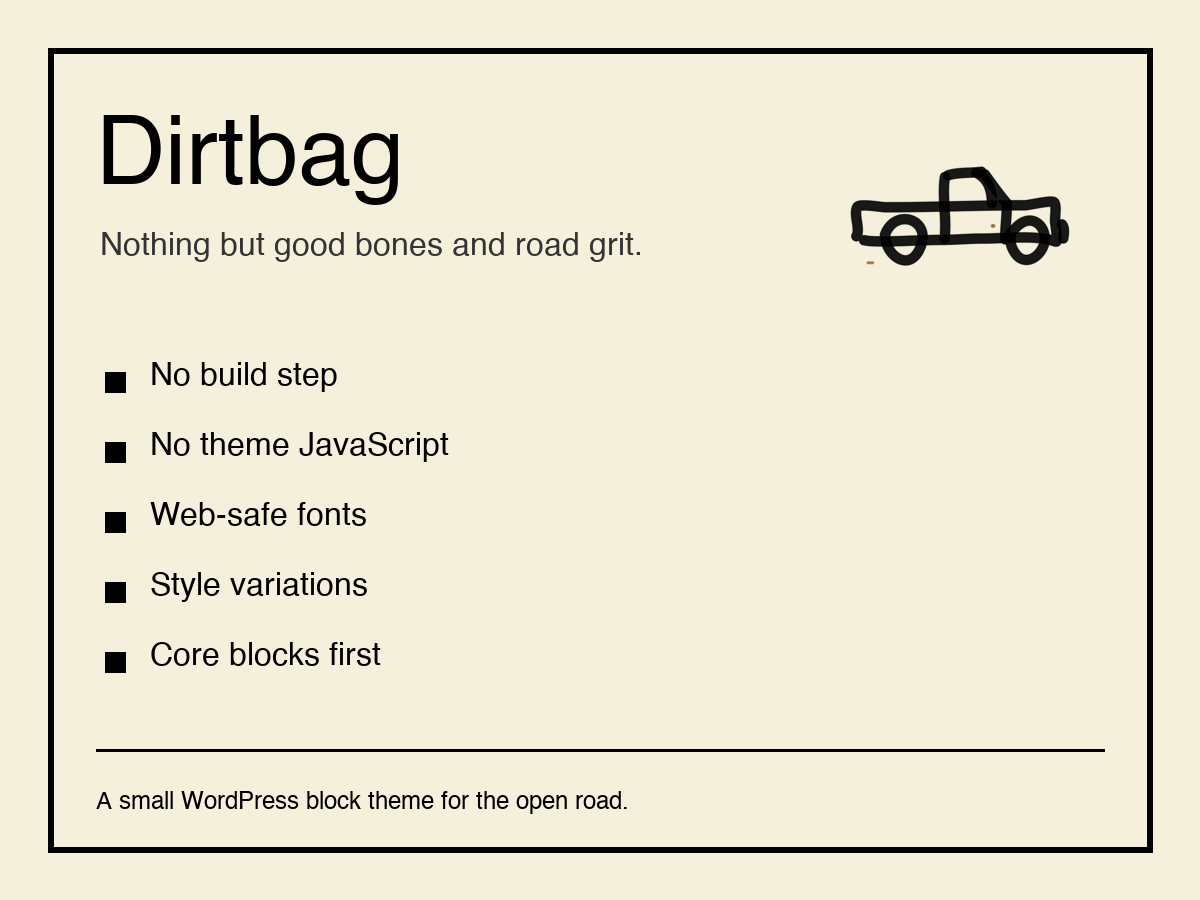
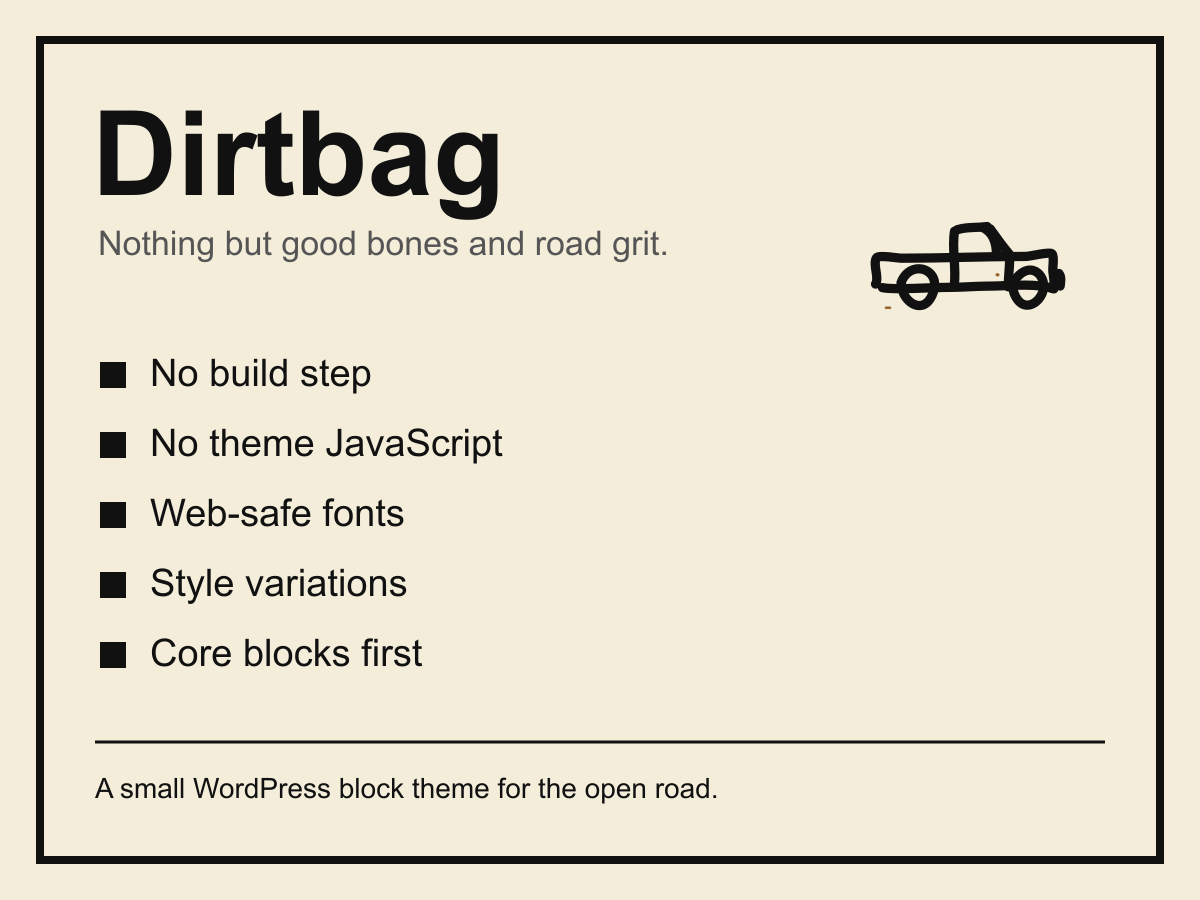
chore: ship a photo-free package; refresh screenshot
Remove all photographic content from the distributable theme so the
WordPress.org package bundles no demo photos (and no CC BY dependency):

- Delete the three front-page gallery JPEGs from assets/images/.
- Remove the gallery block from patterns/front-page.php (the only thing
  that referenced them). The featured-posts grid and sidebar list stay;
  the front page loses only the decorative bottom photo strip.
- Drop the three files from the bin/package-check theme-image inventory.
- Refresh screenshot.png (regenerated 1200x900 brutalist card).

The shipped theme now contains only the author's CC0-derived truck icon,
the site icon, and the screenshot. The three CC images remain in the
dev-only playground/ demo (export-ignored), and their readme.txt credits
stay because the demo still uses them and the Potluck image is CC BY 2.0
(attribution required).

Changed region(s): [[0.0308, 0.0311, 0.9867, 0.9644], [0.7092, 0.1867, 0.8942, 0.3422]]

diff --git a/patterns/front-page.php b/patterns/front-page.php
@@ -69,21 +69,7 @@
 <!-- /wp:query-no-results --></div>
 <!-- /wp:query --></div>
 <!-- /wp:column --></div>
-<!-- /wp:columns -->
-
-<!-- wp:gallery {"linkTo":"none"} -->
-<figure class="wp-block-gallery has-nested-images columns-default is-cropped"><!-- wp:image {"sizeSlug":"full","linkDestination":"none"} -->
-<figure class="wp-block-image size-full"><img src="<?php echo esc_url( get_template_directory_uri() ); ?>/assets/images/potluck-la-catholique.jpg" alt="Potluck dishes set out on a table indoors." class=""/></figure>
-<!-- /wp:image -->
-
-<!-- wp:image {"sizeSlug":"large","linkDestination":"none"} -->
-<figure class="wp-block-image size-large"><img src="<?php echo esc_url( get_template_directory_uri() ); ?>/assets/images/abandoned-rusty-ford-pickup-1024x768.jpg" alt="Abandoned rusty Ford pickup truck without a bed in a gravel driveway." class=""/></figure>
-<!-- /wp:image -->
-
-<!-- wp:image {"sizeSlug":"full","linkDestination":"none","className":"is-style-default"} -->
-<figure class="wp-block-image size-full is-style-default"><img src="<?php echo esc_url( get_template_directory_uri() ); ?>/assets/images/local-chapter-hall-veterans-foreign.jpg" alt="American flag mural and Veterans Foreign Wars sign on a local chapter hall wall." class=""/></figure>
-<!-- /wp:image --></figure>
-<!-- /wp:gallery --></main>
+<!-- /wp:columns --></main>
 <!-- /wp:group -->
 
 <!-- wp:template-part {"slug":"footer","area":"footer"} /-->